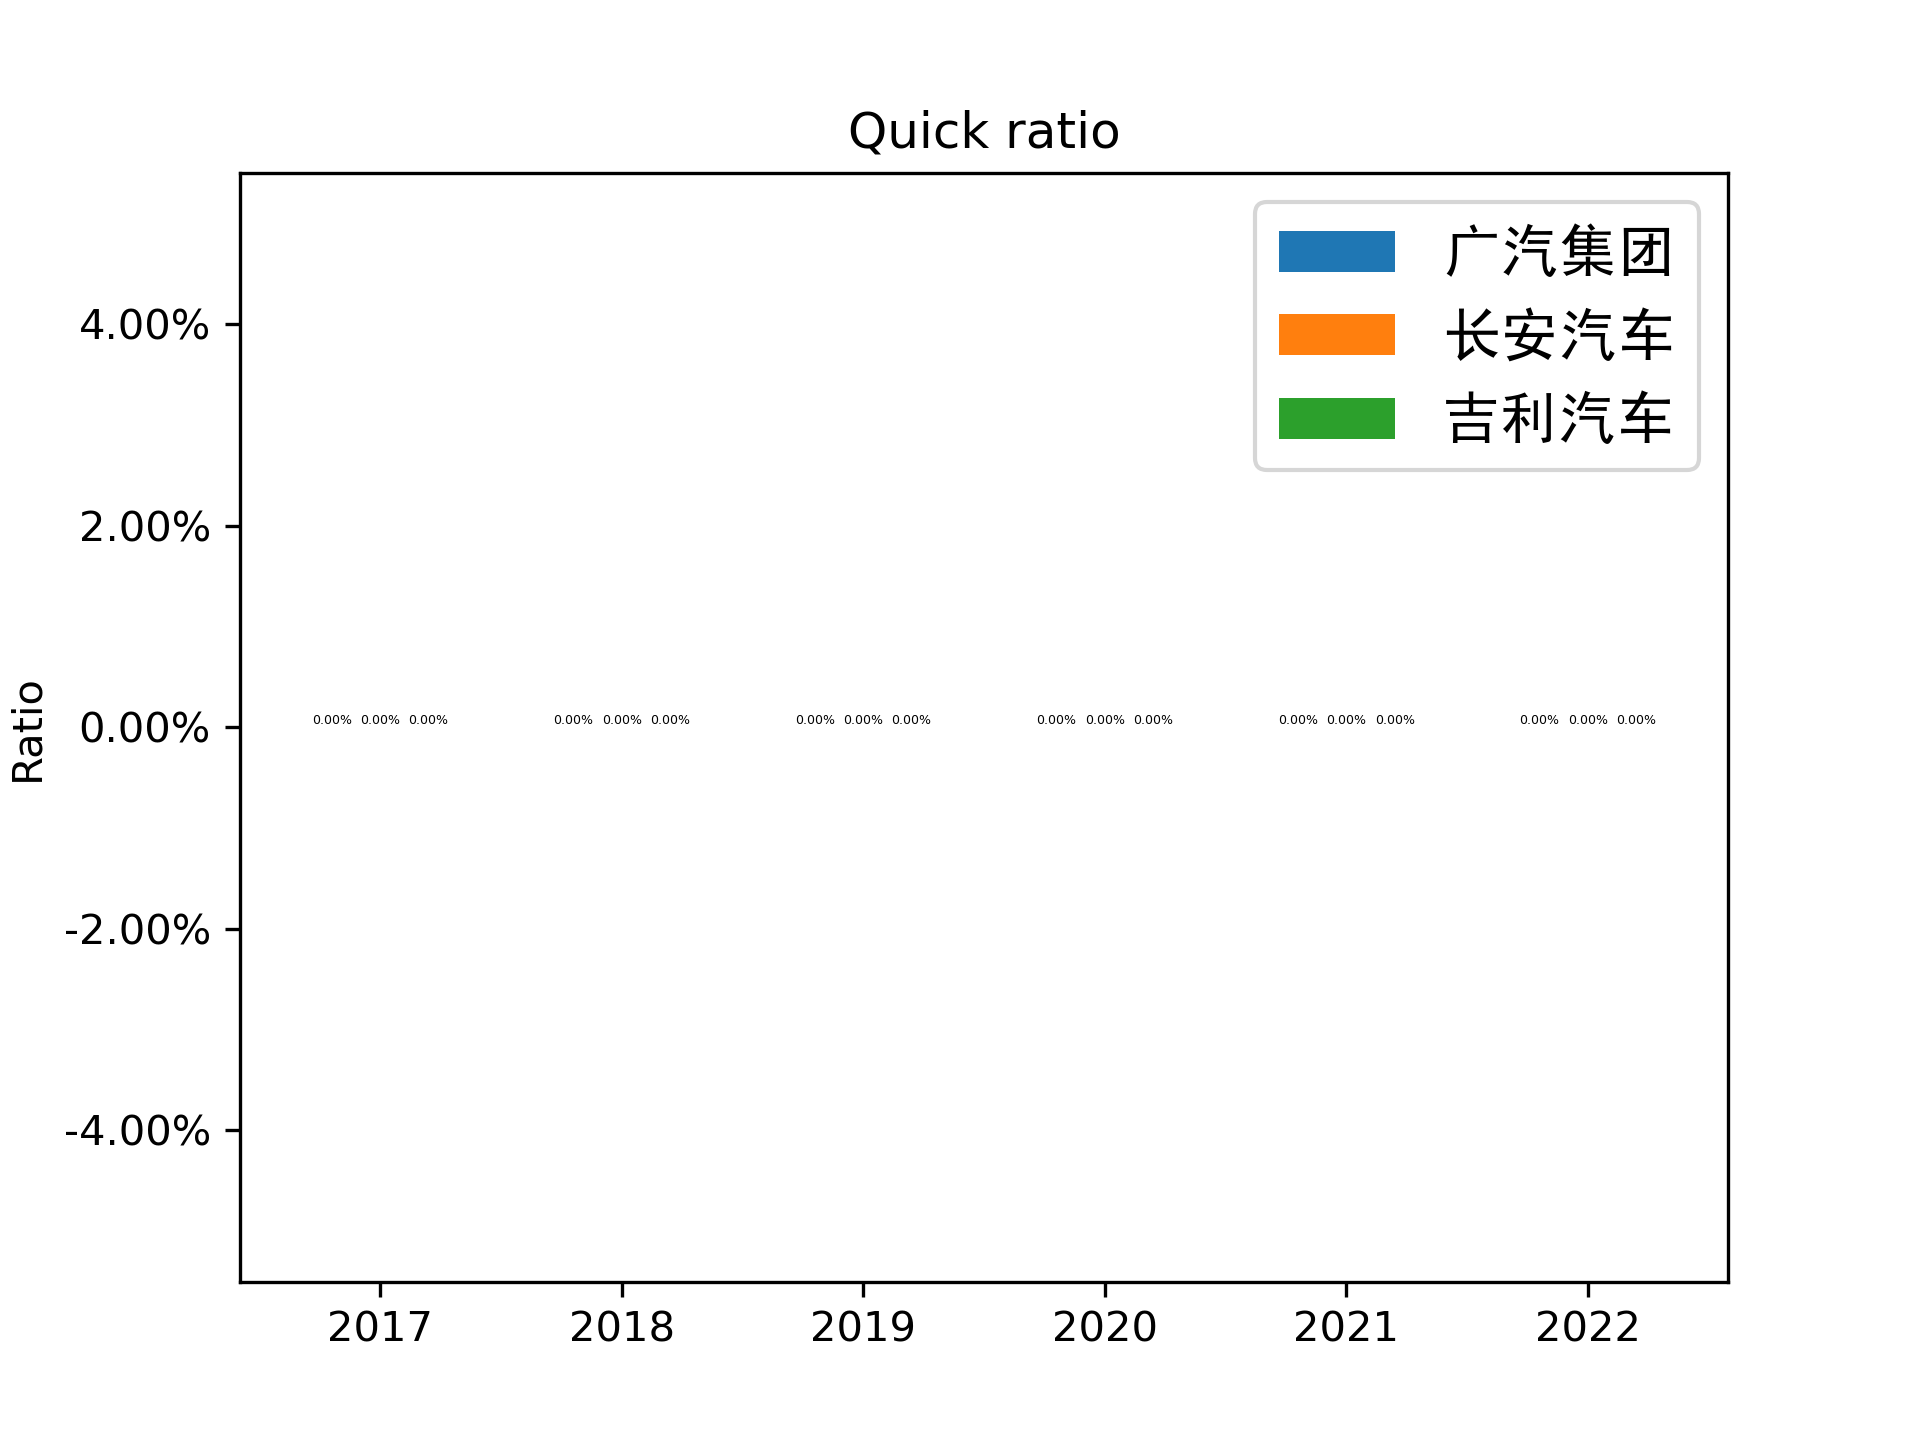
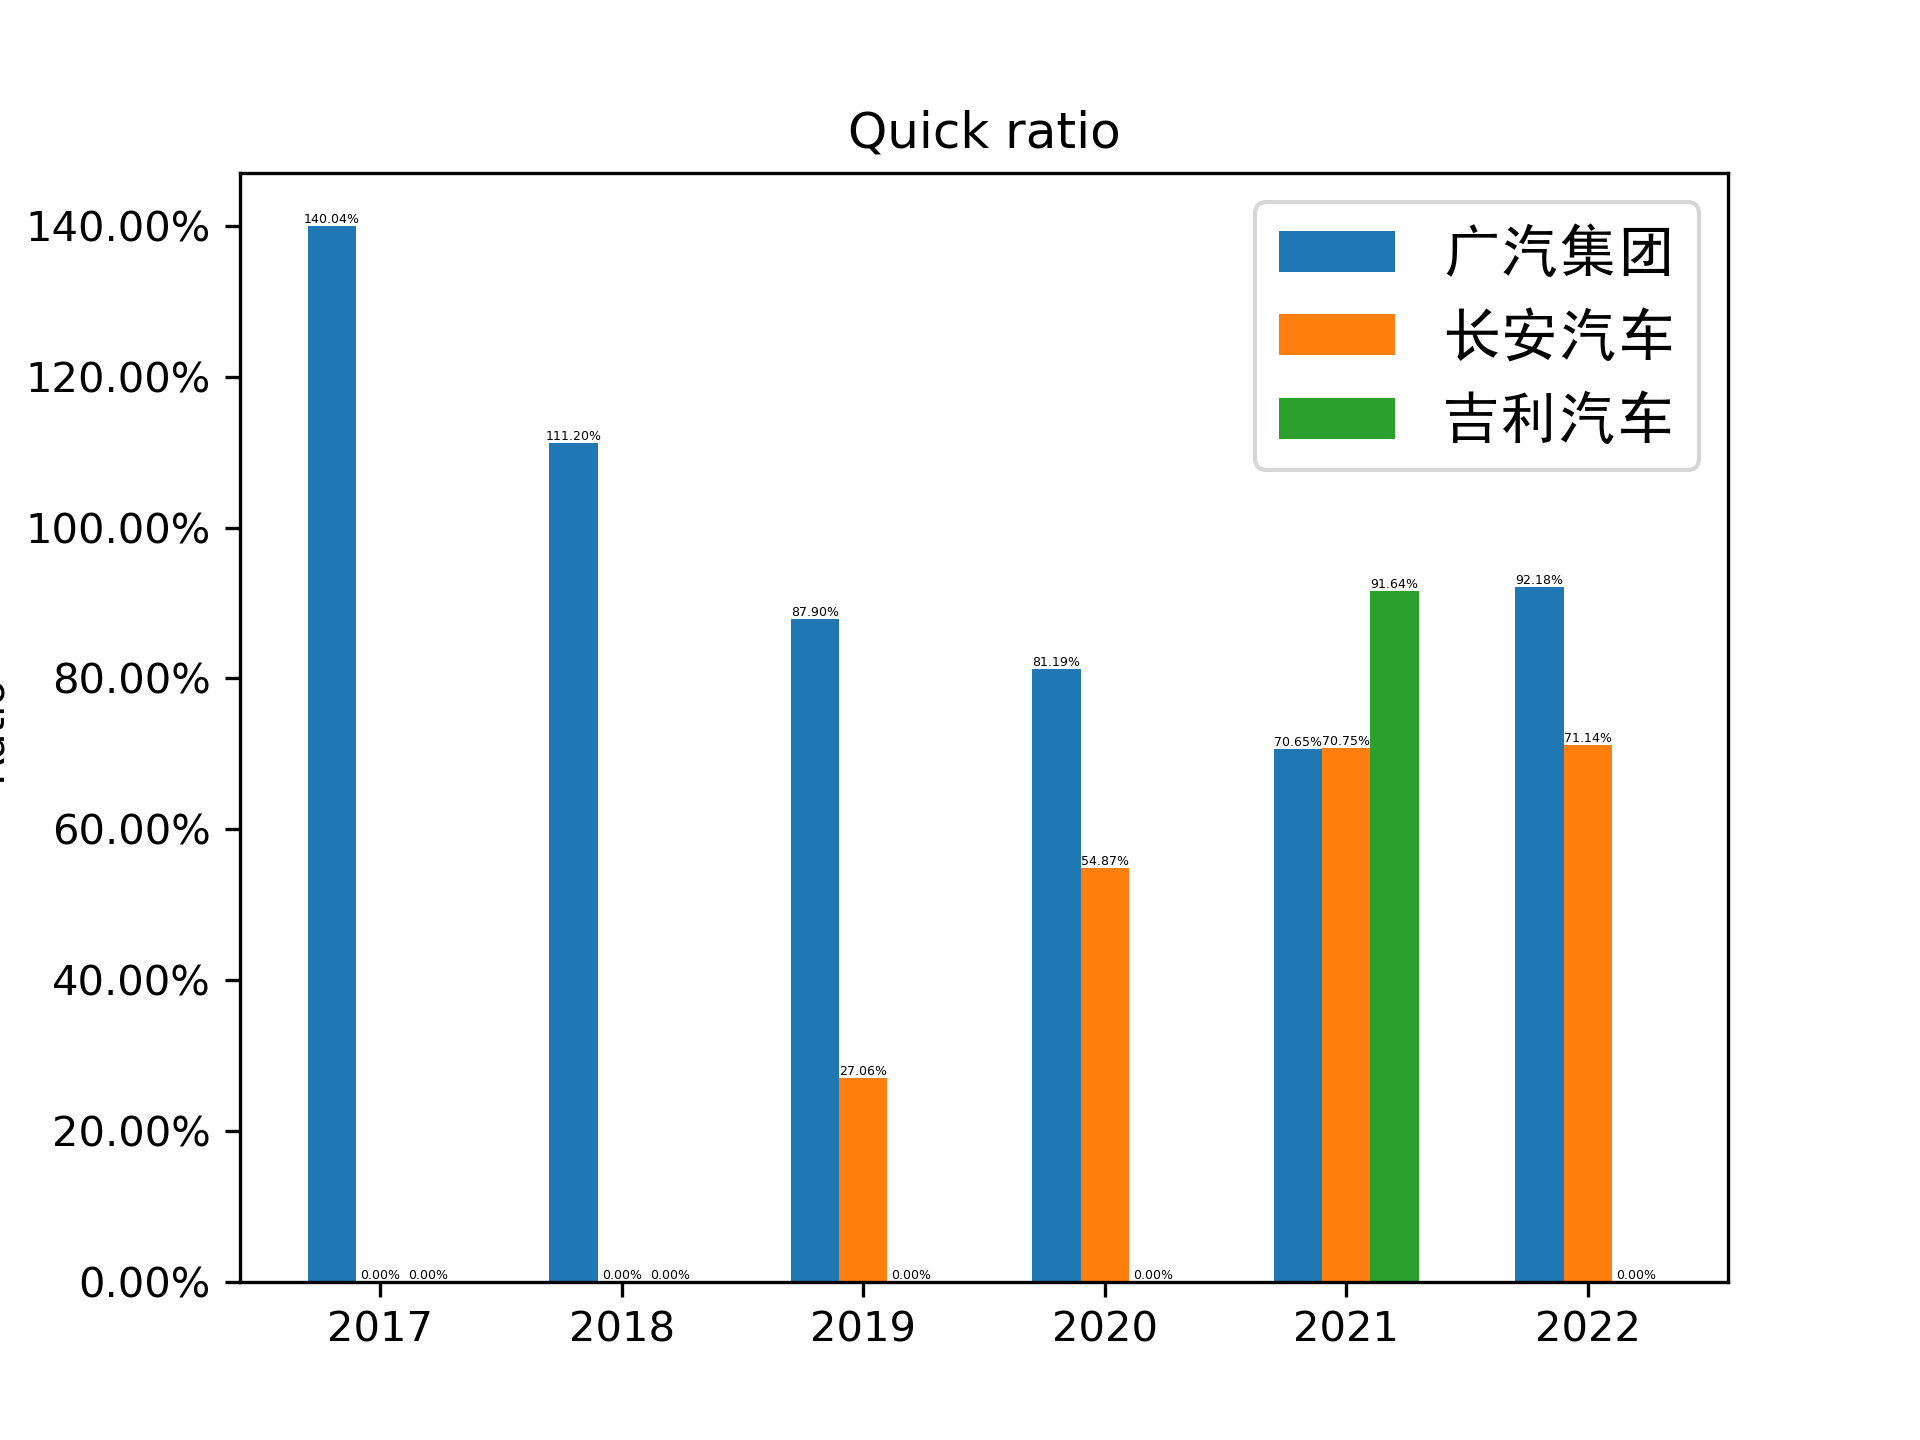
feat: add some data and image

diff --git a/src/cal_ratio.py b/src/cal_ratio.py
@@ -72,11 +72,31 @@ def cal_ratio(ratio_name, sheet: pd.DataFrame) -> list:
         current_liabilities = np.array(current_liabilities)
         ratios = current_assets / current_liabilities
     elif ratio_name == 'Quick ratio':
-        pass
+        marketable_securities = sheet.loc[sheet.iloc[:, 0].str.startswith("Marketable Securities"),date_list]
+        marketable_securities = np.array(marketable_securities)        
+        receivables = sheet.loc[sheet.iloc[:, 0].str.startswith("Net Accounts Receivable"),date_list]
+        receivables = np.array(receivables)
+        cash = sheet.loc[sheet.iloc[:, 0].str.strip() == 'Cash & Cash Equivalents',date_list]
+        cash = np.array(cash)
+        current_liabilities = sheet.loc[sheet.iloc[:, 0].str.strip() == '流动负债',date_list]
+        current_liabilities = np.array(current_liabilities)
+        ratios = (marketable_securities + receivables + cash) / current_liabilities
+        # set nan to 0
+        for i in range(6):
+            if np.isnan(ratios[0][i]):
+                ratios[0][i] = 0
     elif ratio_name == 'Cash ratio':
-        pass
+        cash = sheet.loc[sheet.iloc[:, 0].str.strip() == 'Cash & Cash Equivalents',date_list]
+        cash = np.array(cash)
+        current_liabilities = sheet.loc[sheet.iloc[:, 0].str.strip() == '流动负债',date_list]
+        current_liabilities = np.array(current_liabilities)
+        ratios = cash / current_liabilities
     elif ratio_name == 'Times interest earned ratio':
-        pass
+        interest_expense = sheet.loc[sheet.iloc[:, 0].str.strip() == 'Interest Expense',date_list]
+        interest_expense = np.array(interest_expense)
+        income_tax_expense = sheet.loc[sheet.iloc[:, 0].str.strip() == 'Income Tax Expense',date_list]
+        income_tax_expense = np.array(income_tax_expense)
+        ratios = (net_income + interest_expense + income_tax_expense) / interest_expense
     elif ratio_name == 'Cash coverage ratio':
         pass
     elif ratio_name == 'Debt-to-equity ratio':
@@ -91,6 +111,12 @@ def cal_ratio(ratio_name, sheet: pd.DataFrame) -> list:
         total_liabilities = np.array(total_liabilities)
         total_equity = np.array(total_equity)
         ratios = total_liabilities / total_equity
+    elif ratio_name == 'P_E ratio':
+        market_price = sheet.loc[sheet.iloc[:, 0].str.startswith("Market Price per Share"),date_list]
+        market_price = np.array(market_price)
+        eps = sheet.loc[sheet.iloc[:, 0].str.strip() == 'EPS(基本)',date_list]
+        eps = np.array(eps)
+        ratios = market_price / eps
 
     ratios = ratios.flatten().tolist()
 

diff --git a/src/main.py b/src/main.py
@@ -1,7 +1,7 @@
 import pandas as pd
 import matplotlib.pyplot as plt
 import numpy as np
-from consts import corp_name, ratio_name
+from consts import corp_name, ratio_name, yaxis_not_percentage
 from cal_ratio import cal_ratio
 import os
 from matplotlib.font_manager import FontProperties
@@ -22,7 +22,8 @@ if __name__ == '__main__':
             ax.set_title(ratio_name)
             ax.set_xticks(np.arange(6))
             ax.set_xticklabels(('2017', '2018', '2019', '2020', '2021', '2022'))
-            ax.yaxis.set_major_formatter('{x:.2%}')
+            if ratio_name not in yaxis_not_percentage:
+                ax.yaxis.set_major_formatter('{x:.2%}')
 
             for idx, (corp_code, sheet) in enumerate(data.items()):
                 corp_code = corp_code.split('-')[0]
@@ -32,8 +33,10 @@ if __name__ == '__main__':
                 plt.bar(np.arange(6) -0.2 + 0.2 * idx, ratios, width=0.2, label=corp)
                 # Add text on each bar
                 for i in range(6):
-                    plt.text(i - 0.2 + 0.2 * idx, ratios[i], f'{ratios[i]:.2%}', ha='center', va='bottom', fontsize=3)
-
+                    if ratio_name in yaxis_not_percentage:
+                        plt.text(i - 0.2 + 0.2 * idx, ratios[i], f'{ratios[i]:.2f}', ha='center', va='bottom', fontsize=3)
+                    else:
+                        plt.text(i - 0.2 + 0.2 * idx, ratios[i], f'{ratios[i]:.2%}', ha='center', va='bottom', fontsize=3)
             ax.legend(fontsize=5, prop=font)
             if not os.path.exists(f'output/{ratio_type}'):
                 os.mkdir(f'output/{ratio_type}')

diff --git a/src/consts.py b/src/consts.py
@@ -34,3 +34,12 @@ ratio_name = {
         "Dividend yield ratio"
     ]
 }
+
+yaxis_not_percentage = [
+    "EPS",
+    "Times interest earned ratio",
+    "Cash coverage ratio",
+    "Debt-to-equity ratio",
+    "P_E ratio",
+    "Dividend yield ratio"
+]
